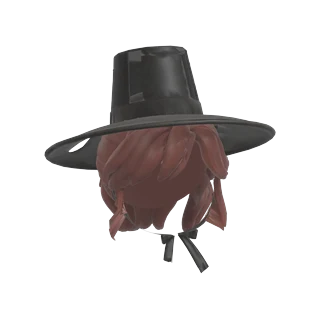
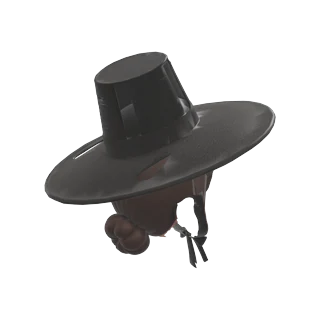
feat(art): 갓·장군 투구 아래 여자 머리를 Tripo 쪽머리로 (#341)
- 포니테일(e) 대신 가르마를 탄 낮은 쪽머리(i)를 Gemini 시트 → Tripo로 만들어 모자 아래 여자 머리로 씀
- split_head.py: Tripo가 한 부품으로 낸 머리카락과 얼굴 피부를 텍스처 밝기로 나눔
- 장군 투구 여자 왕관을 1.15배·3.5 cm 위로(쪽머리 위에서 뜨지 않게)
- hat_hair.py drop_hair: 이마 앞에 뜬 Tripo 머리 부스러기(20면 미만)도 지움
- item_art.py view=: 여자 모자 카드를 옆뒤에서 그려 쪽이 보이게
- 옷 파일 캐시 번호 rig=12

Changed region(s): [[0.125, 0.125, 0.875, 0.875]]

diff --git a/frontend/src/world/art/outfitSources.ts b/frontend/src/world/art/outfitSources.ts
@@ -3,7 +3,7 @@ import type { GLTF } from 'three/addons/loaders/GLTFLoader.js'
 import { ParkAssetLoader } from './assetLoader'
 
 /** Outfit files are fetched when someone first wears one, not with the park: most visitors never need them. */
-export const outfitUrl = (name: string) => `/art/characters/outfits/${name}.glb?rig=11`
+export const outfitUrl = (name: string) => `/art/characters/outfits/${name}.glb?rig=12`
 
 const loaded = new Map<string, GLTF>()
 const requested = new Set<string>()

diff --git a/tools/character/split_head.py b/tools/character/split_head.py
@@ -1,0 +1,48 @@
+"""Split a Tripo head part (hair and face skin came out as one part) by texel colour:
+-- <parts.glb> <out.glb> part=1 [hair=90] [face=91] [dark=0.5] [smooth=4]
+Each face is hair when its mean texel brightness is under `dark`; then `smooth` passes of neighbour majority vote
+clean the edge. The hair becomes tripo_part_<hair>, the skin tripo_part_<face>; every other part is kept."""
+import bpy, bmesh, sys, os
+import numpy as np
+
+a = sys.argv[sys.argv.index('--') + 1:]
+src, out = a[0], os.path.abspath(a[1])
+opt = dict(x.split('=', 1) for x in a[2:])
+PART = f"tripo_part_{opt.get('part', '1')}"
+HAIR, FACE = f"tripo_part_{opt.get('hair', '90')}", f"tripo_part_{opt.get('face', '91')}"
+DARK, SMOOTH = float(opt.get('dark', 0.5)), int(opt.get('smooth', 4))
+
+bpy.ops.wm.read_factory_settings(use_empty=True)
+bpy.ops.import_scene.gltf(filepath=src)
+o = next(x for x in bpy.data.objects if x.type == 'MESH' and x.name.split('.')[0] == PART)
+img = next(n.image for m in o.data.materials for n in m.node_tree.nodes if n.type == 'TEX_IMAGE' and n.image)
+w_, h_ = img.size; P = np.array(img.pixels[:], np.float32).reshape(h_, w_, -1)[..., :3]
+bm = bmesh.new(); bm.from_mesh(o.data); uvl = bm.loops.layers.uv.active; bm.faces.ensure_lookup_table()
+tex = lambda u: P[min(h_ - 1, max(0, int(u.y * h_))), min(w_ - 1, max(0, int(u.x * w_)))]
+hair = np.array([np.mean([tex(l[uvl].uv) for l in f.loops], 0).mean() < DARK for f in bm.faces])
+nb = [[g.index for e in f.edges for g in e.link_faces if g is not f] for f in bm.faces]
+for _ in range(SMOOTH):
+    hair = np.array([(hair[n].sum() * 2 > len(n)) if n and hair[n].sum() * 2 != len(n) else hair[i] for i, n in enumerate(nb)])
+bm.free()
+print('SPLIT', PART, int(hair.sum()), 'hair faces,', int((~hair).sum()), 'skin faces')
+for name, keep in ((HAIR, True), (FACE, False)):
+    c = o.copy(); c.data = o.data.copy(); bpy.context.scene.collection.objects.link(c)
+    b = bmesh.new(); b.from_mesh(c.data); b.faces.ensure_lookup_table()
+    bmesh.ops.delete(b, geom=[f for f in b.faces if hair[f.index] != keep], context='FACES')
+    if keep:   # (the eyelids' dark lines came out as hair: small islands go; welded first, the import split UV seams)
+        bmesh.ops.remove_doubles(b, verts=b.verts, dist=1e-5)
+        seen, small = set(), []
+        for f in b.faces:
+            if f in seen: continue
+            grp = [f]; seen.add(f); st = [f]
+            while st:
+                g = st.pop()
+                for e in g.edges:
+                    for nf in e.link_faces:
+                        if nf not in seen: seen.add(nf); grp.append(nf); st.append(nf)
+            if len(grp) < int(opt.get('min_island', 300)): small += grp
+        bmesh.ops.delete(b, geom=small, context='FACES'); print('SPLIT', len(small), 'faces in small hair islands dropped')
+    b.to_mesh(c.data); b.free(); c.name = name
+bpy.data.objects.remove(o)
+bpy.ops.export_scene.gltf(filepath=out, export_format='GLB', export_image_format='AUTO')
+print('RESULT', out)

diff --git a/tools/character/hat_hair.py b/tools/character/hat_hair.py
@@ -52,8 +52,23 @@ if opt.get('drop_hair', '0') == '1':
                         if nf not in seen: seen.add(nf); grp.append(nf); st.append(nf)
             c = np.mean([P[min(h_ - 1, int(l[uvl].uv.y * h_)), min(w_ - 1, int(l[uvl].uv.x * w_))] for g in grp for l in g.loops], 0)
             if c.mean() > 0.16 and c[0] - c[2] > 0.06: brown += grp
-        bmesh.ops.delete(bm, geom=brown, context='FACES'); bm.to_mesh(o.data); bm.free()
-        print('DROP', o.name, len(brown), 'brown hair faces')
+        bmesh.ops.delete(bm, geom=brown, context='FACES')
+        # and crumbs, pieces of under `crumbs` (20) faces joined by position (the import split the mesh along UV
+        # seams): two single dark triangles of Tripo's hair floated before the forehead, hidden by the man's fringe,
+        # two black marks on the girl's bare forehead in the game, which draws both sides (user)
+        root = {}
+        def find(k):
+            while root.setdefault(k, k) != k: root[k] = root[root[k]]; k = root[k]
+            return k
+        key = lambda v: tuple(round(x, 5) for x in v.co)
+        for f in bm.faces:
+            ks = [key(v) for v in f.verts]
+            for k in ks[1:]: root[find(k)] = find(ks[0])
+        size = {}
+        for f in bm.faces: r = find(key(f.verts[0])); size[r] = size.get(r, 0) + 1
+        crumbs = [f for f in bm.faces if size[find(key(f.verts[0]))] < int(opt.get('crumbs', 20))]
+        bmesh.ops.delete(bm, geom=crumbs, context='FACES'); bm.to_mesh(o.data); bm.free()
+        print('DROP', o.name, len(brown), 'brown hair faces,', len(crumbs), 'crumb faces')
 
 # cap_for=man,MAT (the general's helmet): the cap under the crown (material MAT, cap_black) becomes the man's piece,
 # item__HAIR__<set>__for_man; the girl wears the crown on her own hair instead (the black dome behind the crown looked

diff --git a/tools/character/item_art.py b/tools/character/item_art.py
@@ -4,7 +4,8 @@ like the default parts' pictures (frontend/src/features/wardrobe/parts), lit by 
 Writes <out_dir>/outfit-<file>-<set>-<slot>.raw.png; fit them to the card with the same 232 px width afterwards.
 together=TOP,BOTTOM,SHOES also draws those slots as one picture, <out_dir>/set-<file>-<set>.raw.png (a set's card:
 the wardrobe's outfit is worn as one). cut_above=dz leaves out of the top's and the set's pictures what lies over
-dz above the neck joint. variant=girl draws a hat's girl hair (__for_girl) and writes -girl pictures."""
+dz above the neck joint. variant=girl draws a hat's girl hair (__for_girl) and writes -girl pictures. view=dx,dy,dz
+looks from another direction (default -0.35,-1,0.15)."""
 import bpy, sys, os, re
 from mathutils import Vector
 a = sys.argv[sys.argv.index('--') + 1:]
@@ -32,7 +33,9 @@ w.node_tree.nodes['Background'].inputs[0].default_value = (1, 1, 1, 1); w.node_t
 sun = bpy.data.objects.new('s', bpy.data.lights.new('s', 'SUN')); sun.data.energy = 1.6; sc.collection.objects.link(sun); sun.rotation_euler = (0.9, 0.2, 0.5)
 cam = bpy.data.objects.new('c', bpy.data.cameras.new('c')); sc.collection.objects.link(cam); sc.camera = cam
 cam.data.type = 'ORTHO'
-d = Vector((-0.35, -1, 0.15)).normalized()
+# (view=dx,dy,dz: another direction; the girl's bun under a hat, seen from the front, showed the hollow inside of
+# the hair, the face being the body's)
+d = Vector([float(x) for x in opt['view'].split(',')] if opt.get('view') else (-0.35, -1, 0.15)).normalized()
 dg = bpy.context.evaluated_depsgraph_get()
 jobs = list(items.items())
 if opt.get('together'):

diff --git a/docs/character-outfits.md b/docs/character-outfits.md
@@ -15,7 +15,7 @@
   - 그래서 새 옷은 **자기 한 벌을 입었을 때만** 맞으면 된다. 다른 상의·하의·신발과 섞어 입는 경우는 생기지 않는다.
   - 부위별로 섞어 입게 했을 때는 바지가 다른 상의를 뚫거나, 바지 없이 신발만 신으면 발목이 비는 문제가 옷마다 생겼다.
 - **캐릭터별 조각.** `item__HAIR__h__for_girl`처럼 `__for_man`/`__for_girl`이 붙은 조각은 그 캐릭터에게만 보인다(④-2).
-- **의상 문자.** 기준 빌드 안의 의상은 문자로 구분한다. 이미 쓴 문자는 `a`~`g`(남자 기본 `b`·`d`, 여자 머리 `e`, 장군 `g`)이고, 새 옷은 `h`부터 쓴다.
+- **의상 문자.** 기준 빌드 안의 의상은 문자로 구분한다. 이미 쓴 문자는 `a`~`i`(남자 기본 `b`·`d`, 여자 머리 `e`, 장군 `g`, 갓·도포 `h`, 모자 아래 여자 쪽머리 `i`)이고, 새 옷은 `j`부터 쓴다.
 - **몸 조각.** 의상에 가려지는 몸은 `body__TOPd_BOTTOMg`처럼 가리는 의상 이름이 붙은 조각으로 잘려 있다. 이 조각은 그 의상 중 하나라도 입으면 숨는다. 의상 조각 `item__BOTTOM__d__under_TOPb`는 `TOP b`를 함께 입으면 숨는다.
 - **게임 파일**(`frontend/public/art/characters/`):
   - `man.glb`, `girl.glb`: 공용 몸의 모든 조각 + 그 캐릭터의 기본 옷.
@@ -132,25 +132,38 @@
 모자와 머리카락이 한 아이템인 머리 아이템(갓, 장군 투구)은 남녀가 같이 쓴다. 그래서 머리카락을 캐릭터별 조각으로 따로 둔다.
 
 - 조각 이름은 `item__HAIR__<문자>__for_man` / `item__HAIR__<문자>__for_girl`이다. 게임은 그 캐릭터에만 그린다(`characterLook.ts`).
-- 머리카락은 기본 캐릭터의 머리(남자 `b`, 여자 `e`)를 복사해 쓴다. Tripo 머리보다 깔끔하고 기본 모습과 머릿결이 같다.
+- 남자 머리카락은 기본 머리 `b`를 복사해 쓴다. Tripo 머리보다 깔끔하고 기본 모습과 머릿결이 같다.
+- 여자는 기본 머리 `e`(포니테일)를 쓰면 모자 아래에서 어색해서, 모자용 머리 `i`(가르마를 탄 낮은 쪽머리)를 따로 만들었다.
+  1. 공용 몸 T자 시트(`pose_sheet.py pose=t`)를 Gemini에 넣고, 몸·얼굴·배치는 그대로 두고 머리만 그리게 했다: 가운데 가르마, 머리에 붙게 빗어 넘긴 머리, 목덜미의 작은 쪽. 모자·장신구는 넣지 않는다.
+  2. Tripo 여러 면(정면 / Left = 오른쪽 아래 / Right = 오른쪽 위 / 뒤), Generate in Parts, Balanced, 4K 텍스처.
+  3. Tripo가 머리카락과 얼굴 피부를 한 부품으로 냈다. `split_head.py`가 텍스처 밝기로 나눈다(머리 `tripo_part_90`, 얼굴 `tripo_part_91`). 눈가의 어두운 선이 머리로 잡혀서, 2000면보다 작은 머리 조각은 지운다.
+  4. 머리만 기준 빌드에 맞춘다. 얼굴(`head_fit`)로 맞추니 크기 1.002배로 몸과 거의 같았다.
+
+```bash
+"$B" -b --python tools/character/split_head.py -- girl_bun_parts.glb girl_bun_split.glb part=1 min_island=2000
+"$B" -b --python tools/character/fit_outfit.py -- shared_layers_h.glb girl_bun_split.glb shared_layers_hi.glb set=i s=1.065 head_fit=91 "map=HAIR:90,3"
+```
+
+- `i`는 모자 아래 머리의 원본일 뿐이라 아이템으로 팔지 않는다(옷 파일에도 넣지 않는다).
 - `tools/character/hat_hair.py`가 머리카락을 모자 안으로 넣는다.
   - 머리 중심에서 그 점 사이에 모자가 있으면, 그 점을 모자 안쪽 3 mm로 당긴다.
   - 모두 당겨져 모자 속에 숨은 면은 지운다.
-  - `drop_hair=1`은 모자 아이템에 있던 Tripo 머리(갈색 조각)를 뺀다.
+  - `drop_hair=1`은 모자 아이템에 있던 Tripo 머리(갈색 조각)를 뺀다. 20면보다 작은 부스러기도 함께 뺀다(`crumbs`). 이마 앞에 뜬 삼각형 두 개가 남자 앞머리에 가려 있다가, 이마가 드러난 쪽머리에서 검은 자국으로 보였다(게임은 면 양쪽을 그린다).
 
 ```bash
-"$B" -b --python tools/character/hat_hair.py -- shared_layers_h.glb hh1.glb set=h drop_hair=1        # 갓: 남녀 모두 기본 머리로
-"$B" -b --python tools/character/hat_hair.py -- hh1.glb hh2.glb set=g man= girl=e cap_for=man,cap_black crown_for=girl,1.2,0.045 down=0 pull=0   # 장군 투구
+"$B" -b --python tools/character/hat_hair.py -- shared_layers_hi.glb hh1.glb set=h drop_hair=1 girl=i        # 갓: 남자 기본 머리, 여자 쪽머리
+"$B" -b --python tools/character/hat_hair.py -- hh1.glb hh2.glb set=g man= girl=i cap_for=man,cap_black crown_for=girl,1.15,0.035 down=0 pull=0   # 장군 투구
 ```
 
 - 갓은 머리 중심에서 바깥으로 당기는 것에 더해, 위에서 아래로도 검사해 챙 위로 삐져나온 머리를 챙 아래로 누른다(`down`, 기본 12 cm). 왕관 모양 투구에는 쓰지 않는다(`down=0`).
 - 장군 투구는 두건(검은 모자)이 머리를 덮는 모양이라, 여자에게 씌우면 뒤로 검은 공처럼 보였다. 그래서 여자에게는 두건을 빼고 왕관을 머리 위에 얹는다.
   - `cap_for=man,cap_black`: 두건(재질 `cap_black`과 거의 검은 면)은 남자 조각으로만 두고, 두건이 가리던 두피는 여자 조각에 되살린다(같이 가리던 상의가 있으면 `__under_` 규칙 유지).
-  - `crown_for=girl,1.2,0.045`: 여자용 왕관을 머리 중심 기준 1.2배, 4.5 cm 위로 복사해 머리 위에 얹는다. 원래 크기면 왕관이 머리에 파묻혔다.
+  - `crown_for=girl,1.15,0.035`: 여자용 왕관을 머리 중심 기준 1.15배, 3.5 cm 위로 복사해 머리 위에 얹는다. 원래 크기면 왕관 뒤쪽이 머리에 파묻혔고, 포니테일 때 쓰던 1.2배·4.5 cm는 쪽머리 위에서 떠 보였다.
   - `pull=0`: 여자 머리는 당기지 않는다. 당기면 왕관을 지나는 머리카락이 가시처럼 삐죽해졌다.
 
 - 머리를 넣은 옷 파일은 `to_game.py`의 `near`를 머리 몫만큼 올린다(갓 4만 → 7만 5천). 그대로 두면 촘촘한 머리가 삼각형을 다 가져가 도포가 거칠어지고 어깨에 구멍이 생겼다(도포 17,324 → 6,674). 머리를 미리 크게 줄이면(`hair_faces`) 머리 텍스처가 줄무늬처럼 깨져서 쓰지 않는다.
-- 카드 그림은 `item_art.py ... variant=girl`로 `-girl` 그림(`outfit-gat-h-hair-girl.webp`)을 따로 만든다. 옷장은 여자 캐릭터일 때 이 그림을 먼저 쓴다.
+- 카드 그림은 `item_art.py ... variant=girl view=-1,0.5,0.2`로 `-girl` 그림(`outfit-gat-h-hair-girl.webp`)을 따로 만든다. 옷장은 여자 캐릭터일 때 이 그림을 먼저 쓴다.
+  - 쪽머리는 얼굴을 덮지 않아 앞에서 그리면 머리 안쪽이 비어 보인다. 그래서 옆뒤(`view`)에서 쪽이 보이게 그린다.
 
 ### ⑤ 빌드 확인
 
